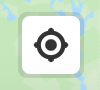
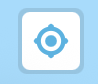
improved wizard

diff --git a/app/src/components/ui/onboarding-hint.tsx b/app/src/components/ui/onboarding-hint.tsx
@@ -29,60 +29,114 @@ export default function OnboardingHint({
   // Onboarding steps
   const steps: Step[] = useMemo(
     () => [
+{
+  title: "Hae osoitteella tai paikalla",
+  body: (
+    <>
+      Kirjoita osoite, paikka tai alue hakukenttään.
+      <br />
+      Saat ehdotuksia kirjoittaessasi; klikkaa ehdotusta tai paina Enter, niin karttaikkuna keskittyy valittuun sijaintiin.
+      <br /><br />
+      <small>Vinkki: ↑/↓ selaa ehdotuksia, ↩︎ Enter hakee</small>
+      <br /><br />
+      Esimerkkejä:&nbsp;
+      <span className="inline-flex gap-2 flex-wrap">
+        <span className="px-2 py-1 rounded-full bg-gray-100">Mannerheimintie 10</span>
+        <span className="px-2 py-1 rounded-full bg-gray-100">Kauppatori</span>
+        <span className="px-2 py-1 rounded-full bg-gray-100">Hervanta</span>
+      </span>
+    </>
+  ),
+  imageSrc: "/images/searchBoxOnBoarding.png",
+  imageAlt: "Hakukenttä",
+  // Lisäksi komponenttitasolla: placeholder="Hae osoite, paikka tai alue", aria-label="Haku"
+},
       {
-        title: "Hae osoitteella tai paikalla",
-        body: <>Käytä hakupalkkia löytääksesi osoitteen tai paikan.</>,
-        imageSrc: "/images/searchBoxOnBoarding.png",
-        imageAlt: "Hakukenttä",
-      },
+  title: "Ota paikannus käyttöön",
+  body: (
+    <>
+      Napsauta sijaintipainiketta. Ensimmäisellä kerralla Recycleriä käytettäessä verkkoselain kysyy luvan sijainnin käyttöön – hyväksy, niin karttaikkuna keskittyy nykyiseen sijaintiisi.
+      <br /><br />
+      Paina painiketta uudelleen, niin <b>Seuraa sijaintiani</b> -tila kytkeytyy päälle/pois (esimerkkikuvassa toiminto on päällä). Seurantatilassa näkymä seuraa sijaintiasi liikkuessasi.
+      <br /><br />
+      Jos et anna lupaa tai paikannus ei toimi, voit hakea kohteen osoitteella tai paikannimellä.
+      <br />
+    </>
+  ),
+  imageSrc: "/images/geolocationOnBoarding.png",
+  imageAlt: "Sijaintipainike",
+},
       {
-        title: "Ota paikannus käyttöön",
-        body: (
-          <>
-          Klikkaa sijaintipainiketta, niin kartta keskitetään nykyiseen sijaintiisi.
-ReCycler-sovellus kysyy sinulta luvan sijainnin käyttämiseen.
-Jos painat painiketta uudelleen, voit ottaa käyttöön jatkuvan paikannuksen.
-          </>
-        ),
-        imageSrc: "/images/geolocationOnBoarding.png",
-        imageAlt: "Sijaintipainike",
-      },
-      {
-        title: "Vaihda taustanäkymä",
-        body: (
-          <>Vaihda kartan taustanäkymä: normaali kartta tai satelliittikuva.</>
-        ),
-        imageSrc: "/images/backgroundMapOnBoarding.png",
-        imageAlt: "Taustakarttavalitsin",
-      },
-      {
-        title: "Valitse materiaalit",
-        body: (
-          <>
-            Valitse haluamasi materiaalit – vastaavat keräyspisteet 
-            korostetaan kartalla. Jos kaikki valitut materiaalit voidaan 
-            palauttaa samaan kierrätyspisteeseen, kyseinen piste 
-            korostetaan kartalla kierrätysikonilla, jossa on keltainen reunus.
-          </>
-        ),
-        imageSrc: "/images/materialSelectorOnBoarding.png",
-        imageAlt: "Materiaalivalitsin",
-      },
-      {
-        title: "ReCycler avustaja",
-        body: (
-          <>
-            Kysy kierrätysneuvoja ReCycler avustajalta - se kertoo, mihin eri
-            materiaalit voi viedä.
-          </>
-        ),
-        imageSrc: "/images/chatbotOnBoarding.png",
-        imageAlt: "ReCycler avustaja",
-      },
-      {
-        title: "Kaikki valmista!",
-        body: <>Hienoa - Olet valmis etsimään kierrätyspisteitä!</>,
-      },
+  title: "Vaihda taustanäkymä",
+  body: (
+    <>
+      Klikkaa taustakarttapainiketta (maapallo-kuvake).  
+      <br />
+      Voit vaihtaa kartan taustanäkymän: <b>normaali kartta</b> (selkeä kadut ja alueet) tai <b>satelliittikuva</b> (realistinen ilmakuvanäkymä).
+      <br /><br />
+      <small>Vinkki: käytä karttanäkymää reittien ja osoitteiden hakuun, satelliittia kun haluat nähdä rakennukset ja maaston tarkemmin. 
+      3D-näkymässä voit puolestaan tarkastella rakennuksia ja maastoa kolmiulotteisesti eri kulmista.</small>
+    </>
+  ),
+  imageSrc: "/images/backgroundMapOnBoarding.png",
+  imageAlt: "Taustakartan vaihtopainike",
+},
+   {
+  title: "Valitse materiaalit",
+  body: (
+    <>
+      Valitse haluamasi materiaalit painikkeesta.  
+      <br />
+      Numerokuvake <b>(0 → 1, 2…)</b> kertoo, montako materiaalia on valittuna.
+      <br /><br />
+      Kartalla korostetaan ne keräyspisteet, jotka ottavat vastaan kaikki valitsemasi materiaalit.  
+      Nämä pisteet näkyvät keltaisella reunuksella varustetulla kierrätyskuvakkeella.
+    </>
+  ),
+  imageSrc: "/images/materialSelectorOnBoarding.png",
+  imageAlt: "Materiaalivalintapainike",
+},
+{
+  title: "ReCycler-avustaja",
+  body: (
+    <>
+      Kysy kierrätysasioista ReCycler-avustajalta selkokielellä – sinun ei tarvitse tuntea virallisia termejä.
+      <br /><br />
+      Voit esimerkiksi kysyä:
+      <ul>
+        <li>“Mihin laitan rikkinäisen paistinpannun?”</li>
+        <li>“Voiko pizzalaatikon kierrättää?”</li>
+        <li>“Miten paristot ja akut pitää pakata?”</li>
+      </ul>
+      Avustaja antaa lajitteluohjeet ja kertoo, mihin jätelajiin materiaali kuuluu. 
+      <br /><br />
+      <small>Huom: Recycler-avustaja ei näe (toistaiseksi) karttaa eikä paikanna pisteitä. Löydät keräyspisteet haulla tai materiaalivalinnalla.</small>
+    </>
+  ),
+  imageSrc: "/images/chatbotOnBoarding.png",
+  imageAlt: "ReCycler-avustaja",
+},
+{
+  title: "Kaikki valmista!",
+  body: (
+    <>
+      Hienoa – olet nyt valmis käyttämään ReCycleriä!  
+      <br /><br />
+      Voit heti kokeilla:
+      <ul>
+        <li>Hae osoite, paikka tai alue kartalta</li>
+        <li>Valitse materiaalit ja katso, mitkä pisteet sopivat</li>
+        <li>Kysy lajitteluohjeita ReCycler-avustajalta</li>
+      </ul>
+      <br />
+      Oikein mukavia kierrätyshetkiä!
+    </>
+  ),
+  imageSrc: null,
+  imageAlt: null,
+  ctaLabel: "Aloita"
+}
+
     ],
     []
   );